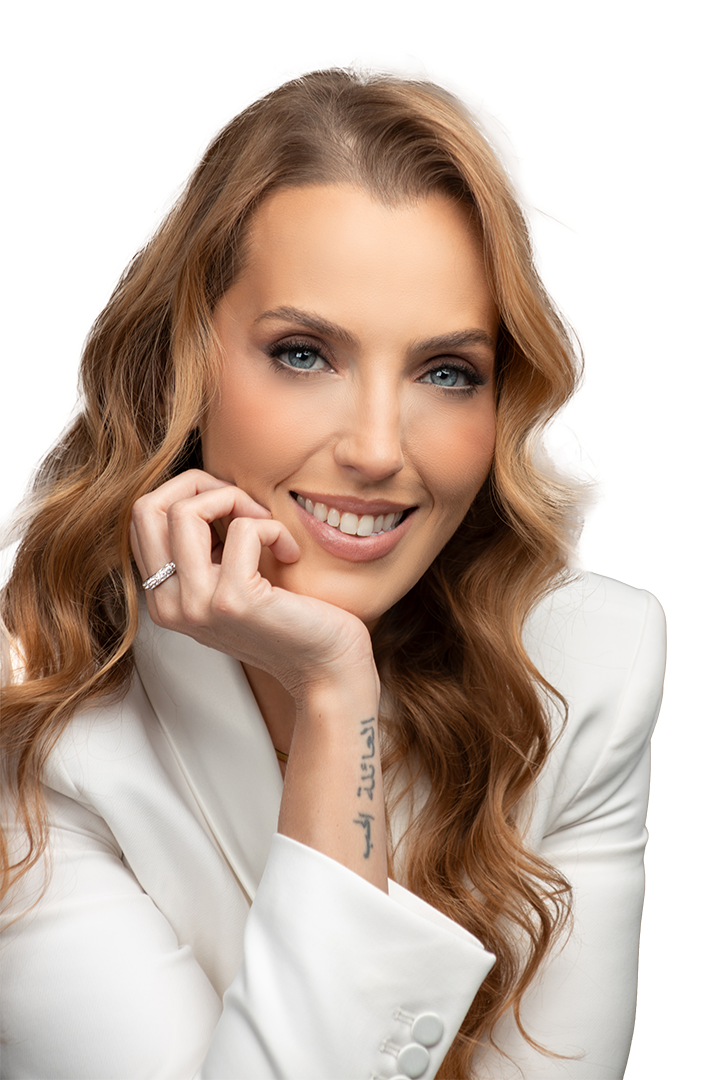
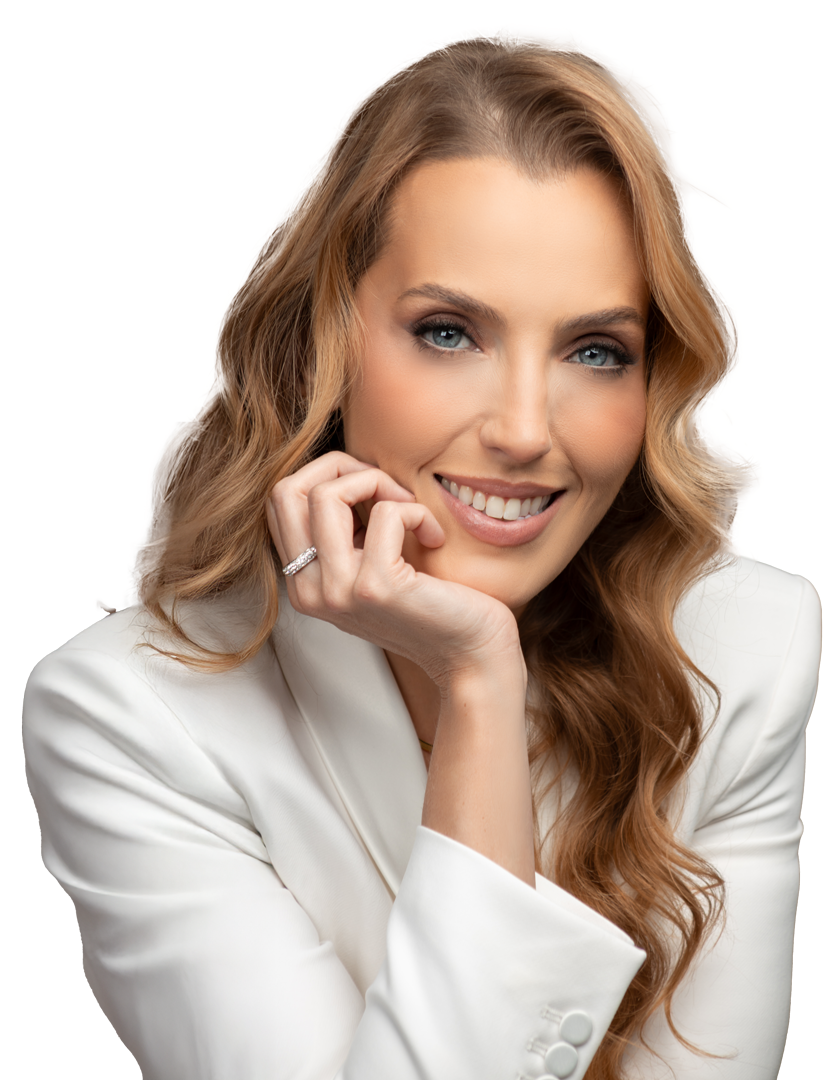
upload

diff --git a/src/app/page.tsx b/src/app/page.tsx
@@ -31,24 +31,30 @@ export default function Home() {
   const whatsappUrl = "https://api.whatsapp.com/send?phone=5511933110909&text=Gostaria+de+mais+informa%C3%A7%C3%B5es+sobre+os+procedimentos+est%C3%A9ticos"
   return (
     <div className="relative overflow-hidden">
-      <Section id="home" className="relative bg-gradient-to-b from-[#d2b9a5] via-[#d2b9a5] via-35% to-[#a9856d]">
+      <Section id="home" className="min-h-[100vh] relative bg-gradient-to-b from-[#d2b9a5] via-[#d2b9a5] via-35% to-[#a9856d]">
         <Menu />
-        <Image src={Logo} alt="imagem" className="pt-20 px-4 z-15 relative lg:absolute lg:top-20 lg:right-20" />
-        <div className="absolute top-0 left-0 w-full h-full"><Image src={Asset1} alt="imagem" className="rotate-slow -mt-40 w-full h-full blur-md opacity-80" /></div>
+        <div className="flex flex-col items-center gap-8 p-4 pt-20 w-full lg:pt-0 lg:absolute lg:max-w-160 lg:top-1/2 lg:-translate-y-1/2 lg:right-12 z-15">
+          <Image src={Logo} alt="imagem" className="w-full h-auto" />
+          <ButtonOpenUrl url={whatsappUrl} className="w-fit items-center gap-2 px-4 !py-6 text-2xl text-white border-2 hidden lg:flex rounded-full">
+            <FaWhatsapp size={28} /> Agendar consulta
+          </ButtonOpenUrl>
+        </div>
+        <div className="absolute top-0 left-0 w-full h-full lg:w-auto">
+          <Image src={Asset1} alt="imagem" className="rotate-slow -mt-40 w-full h-full blur-md opacity-80" /></div>
         <div className="absolute inset-x-0 bottom-0">
-          <div className="w-full h-full flex items-end relative z-20 p-8 pb-16">
+          <div className="w-full h-full flex items-end relative z-20 p-8 lg:p-20 pb-16">
             <div className="flex flex-col gap-8">
               <p className="text-4xl lg:text-6xl text-white font-light drop-shadow-lg">
-                <span>Você em harmonia<br /> com a </span><strong>sua beleza</strong>
+                <span>Você em harmonia<br className="lg:hidden" /> com a </span><strong>sua beleza</strong>
               </p>
-              <ButtonOpenUrl url={whatsappUrl} className="flex w-fit items-center gap-2 px-4 !py-6 text-2xl text-white border-2 rounded-full">
+              <ButtonOpenUrl url={whatsappUrl} className="flex w-fit items-center gap-2 px-4 !py-6 text-2xl text-white border-2 lg:hidden rounded-full">
                 <FaWhatsapp size={28} /> Agendar consulta
               </ButtonOpenUrl>
             </div>
           </div>
-          <div className="absolute inset-0 z-10 bg-gradient-to-b from-transparent via-[#a9856d] via-35% to-[#a9856d]" />
+          <div className="absolute inset-0 z-10 bg-gradient-to-b from-transparent via-[#a9856d] via-35% to-[#a9856d] lg:opacity-80" />
         </div>
-        <Image src={HomeBackground} alt="imagem" className="absolute bottom-0 left-0 z-0 w-full pb-16 lg:max-w-128 lg:pb-0" />
+        <Image src={HomeBackground} alt="imagem" className="absolute bottom-0 -left-10 z-0 h-full w-auto object-contain object-left-bottom pb-16 lg:pb-0 lg:left-30" />
       </Section>
       <Section id="tratamentos" className="bg-[#eee9e3]">
         <Page title={<h1 className="text-3xl">Conheça nossos<br /><span className="text-primary">tratamentos</span></h1>}>

diff --git a/src/components/ui/menu.tsx b/src/components/ui/menu.tsx
@@ -27,19 +27,19 @@ export default function Menu() {
     }
 
     return (
-        <nav className={`w-fit p-4 md:p-8 transition-all duration-300 fixed top-0 right-0 z-100 ${isSticky ? 'bg-gradient-to-b from-[#d2b9a5] via-[#d2b9a5] via-50% to-[transparent]': ''}`}>
-            <ul className="flex flex-col md:flex-row items-start divide-y md:divide-y-0 md:divide-x-2 divide-black">
-                <li className="w-full md:w-auto text-left px-4">
+        <nav className={`w-full lg:text-xl lg:w-fit p-8 transition-all duration-300 fixed top-0 right-0 z-100 ${isSticky ? 'bg-gradient-to-b from-[#d2b9a5] via-[#d2b9a5] via-50% to-[transparent]': ''}`}>
+            <ul className="flex flex-row items-start divide-y-0 divide-x-2 divide-black">
+                <li className="w-full px-4">
                     <button onClick={() => scrollToSection('home')} className="hover:opacity-70 transition-opacity">
                         HOME
                     </button>
                 </li>
-                <li className="w-full md:w-auto text-left px-4">
+                <li className="w-full px-4">
                     <button onClick={() => scrollToSection('tratamentos')} className="hover:opacity-70 transition-opacity">
                         TRATAMENTOS
                     </button>
                 </li>
-                <li className="w-full md:w-auto text-left px-4">
+                <li className="w-full px-4">
                     <button onClick={() => scrollToSection('contato')} className="hover:opacity-70 transition-opacity">
                         CONTATO
                     </button>

diff --git a/src/components/ui/section.tsx b/src/components/ui/section.tsx
@@ -6,7 +6,7 @@ interface SectionProps {
 
 export default function Section({ id, className, children }: SectionProps) {
     return (
-        <div id={id} className={`w-screen min-h-[100vh] lg:min-h-[80vh] h-full p-8 lg:p-20 ${className}`}>
+        <div id={id} className={`w-screen h-full p-8 lg:p-20 ${className}`}>
             {children}
         </div>
     )
